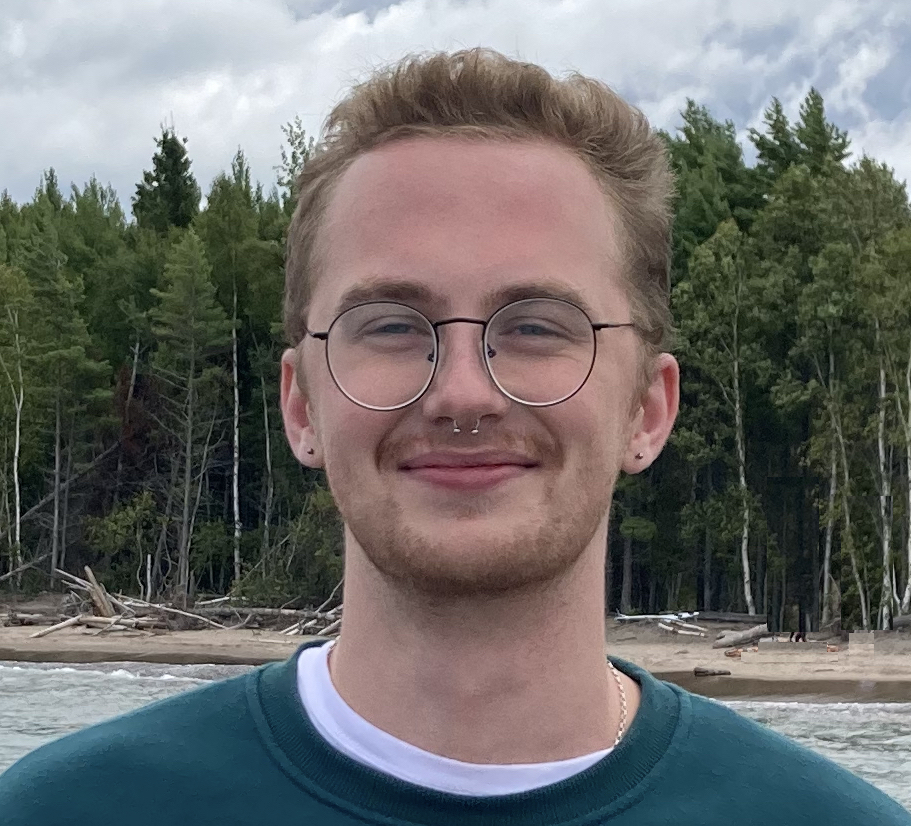
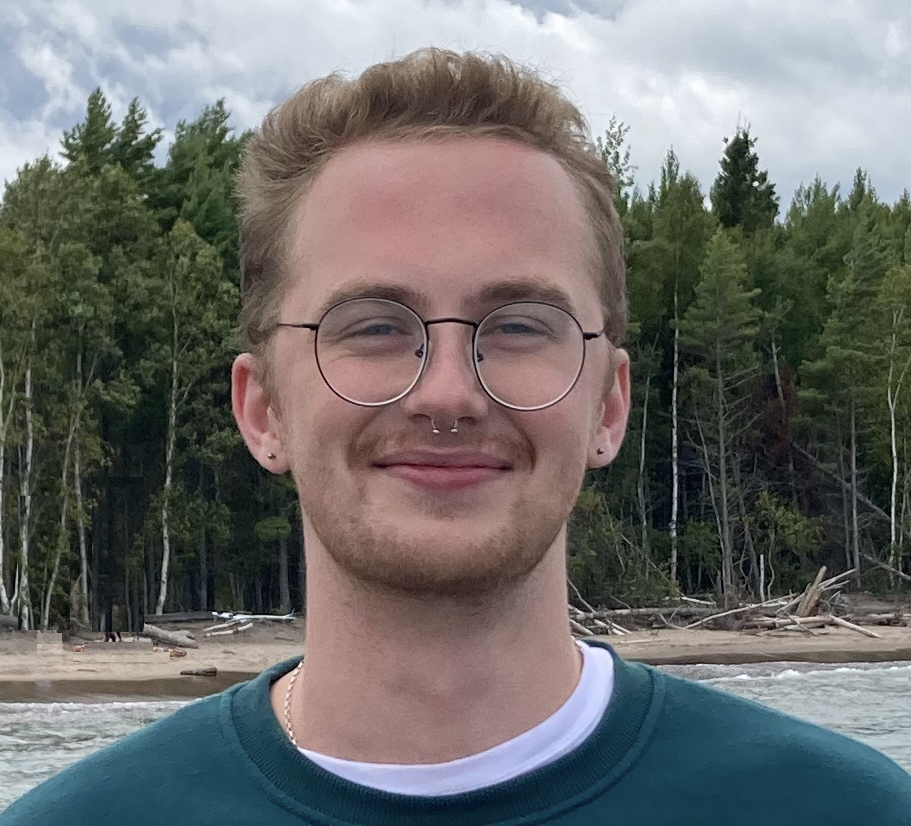
style and mirroring

diff --git a/sign-match.html b/sign-match.html
@@ -1,71 +1,131 @@
 <!DOCTYPE html>
 <html>
-<style>
-    body {
+    <style>
+        body {
         background-color: black;
         color: white;
         font-family: sans-serif;
     }
-</style>
-
-<head>
-    <meta charset="utf-8">
-    <title>sign match</title>
-    <meta name="viewport" content="width=device-width, initial-scale=1">
-</head>
-<script>
-    function is_match() {
+    </style>
+    <head>
+        <meta charset="utf-8">
+        <title>
+            sign match
+        </title>
+        <meta name="viewport" content="width=device-width, initial-scale=1">
+    </head>
+    <script>
+        function is_match() {
         document.getElementById("match-status").innerHTML = "Match Status: Who knows! Your birthday really has nothing to do with it";
     }
     function reset_match() {
         document.getElementById("match-status").innerHTML = "Match Status: ???????";
     }
-</script>
-
-<body>
-    <div style="text-align: center;">
-        <h1>🔮 &nbsp;💫 &nbsp; 🔮 &nbsp; ✨ </h1>
-        <h2>are they ur perfect match?????? check right now!</h2>
-        <h4 id="match-status">Match Status: ???????</h4>
-        <p>
-        <form action="is_match()">
-            <label for="person1">Your sign:</label>
-            <select name="person1" id="person1">
-                <option value="Aries">Aries</option>
-                <option value="Taurus">Taurus</option>
-                <option value="Gemini">Gemini</option>
-                <option value="Cancer">Cancer</option>
-                <option value="Leo">Leo</option>
-                <option value="Virgo">Virgo</option>
-                <option value="Libra">Libra</option>
-                <option value="Scorpio">Scorpio</option>
-                <option value="Sagittarius">Sagittarius</option>
-                <option value="Capricorn">Capricorn</option>
-                <option value="Aquarius">Aquarius</option>
-                <option value="Pisces">Pisces</option>
-            </select>
-            &nbsp;
-            <label for="person2">Their sign:</label>
-            <select name="person2" id="person2">
-                <option value="Aries">Aries</option>
-                <option value="Taurus">Taurus</option>
-                <option value="Gemini">Gemini</option>
-                <option value="Cancer">Cancer</option>
-                <option value="Leo">Leo</option>
-                <option value="Virgo">Virgo</option>
-                <option value="Libra">Libra</option>
-                <option value="Scorpio">Scorpio</option>
-                <option value="Sagittarius">Sagittarius</option>
-                <option value="Capricorn">Capricorn</option>
-                <option value="Aquarius">Aquarius</option>
-                <option value="Pisces">Pisces</option>
-            </select>
-        </form>
-        <br>
-        <button onclick="is_match()">check for a match!</button>
-        <button onclick="reset_match()">reset</button>
-        </p>
-    </div>
-</body>
-
+    </script>
+    <body>
+        <div style="text-align: center;">
+            <h1>
+                🔮  💫   🔮   ✨
+            </h1>
+            <h2>
+                are they ur perfect match?????? check right now!
+            </h2>
+            <h4 id="match-status">
+                Match Status: ???????
+            </h4>
+            <p>
+                <form action="is_match()">
+                    <label for="person1">
+                        Your sign:
+                    </label>
+                    <select name="person1" id="person1">
+                        <option value="Aries">
+                            Aries
+                        </option>
+                        <option value="Taurus">
+                            Taurus
+                        </option>
+                        <option value="Gemini">
+                            Gemini
+                        </option>
+                        <option value="Cancer">
+                            Cancer
+                        </option>
+                        <option value="Leo">
+                            Leo
+                        </option>
+                        <option value="Virgo">
+                            Virgo
+                        </option>
+                        <option value="Libra">
+                            Libra
+                        </option>
+                        <option value="Scorpio">
+                            Scorpio
+                        </option>
+                        <option value="Sagittarius">
+                            Sagittarius
+                        </option>
+                        <option value="Capricorn">
+                            Capricorn
+                        </option>
+                        <option value="Aquarius">
+                            Aquarius
+                        </option>
+                        <option value="Pisces">
+                            Pisces
+                        </option>
+                    </select>
+                    <label for="person2">
+                        Their sign:
+                    </label>
+                    <select name="person2" id="person2">
+                        <option value="Aries">
+                            Aries
+                        </option>
+                        <option value="Taurus">
+                            Taurus
+                        </option>
+                        <option value="Gemini">
+                            Gemini
+                        </option>
+                        <option value="Cancer">
+                            Cancer
+                        </option>
+                        <option value="Leo">
+                            Leo
+                        </option>
+                        <option value="Virgo">
+                            Virgo
+                        </option>
+                        <option value="Libra">
+                            Libra
+                        </option>
+                        <option value="Scorpio">
+                            Scorpio
+                        </option>
+                        <option value="Sagittarius">
+                            Sagittarius
+                        </option>
+                        <option value="Capricorn">
+                            Capricorn
+                        </option>
+                        <option value="Aquarius">
+                            Aquarius
+                        </option>
+                        <option value="Pisces">
+                            Pisces
+                        </option>
+                    </select>
+                </form>
+                <br>
+                <button onclick="is_match()">
+                    check for a match!
+                </button>
+                <button onclick="reset_match()">
+                    reset
+                </button>
+            </p>
+        </div>
+    </body>
 </html>

diff --git a/index.html b/index.html
@@ -1,7 +1,7 @@
 <!DOCTYPE html>
 <html>
-  <style>
-  a{
+    <style>
+        a{
     text-decoration: none;
     color: inherit;
   }
@@ -51,33 +51,71 @@
   a:hover {
     cursor: pointer;
   }
-  </style>
-  <head>
-    <meta charset="utf-8">
-    <title>Reese Porter</title>
-    <meta name="author" content="Reese Porter">
-    <meta name="description" content="software engineer and linguist">
-    <meta name="viewport" content="width=device-width, initial-scale=1">
-    <link rel="shortcut icon" type="image/x-icon" href="favicon.ico"/>
-    <link rel="canonical" href="https://reesporte.github.io/">
-  </head>
-  <script type="text/javascript">function choose(choices) {var index = Math.floor(Math.random() * choices.length);return choices[index];};function magic(){var response = document.getElementById("magic");response.innerHTML = choose(['It is certain.', 'It is decidedly so.', 'Without a doubt.', 'Yes - definitely.', 'You may rely on it.','As I see it, yes.', 'Most likely.', 'Outlook good.','Yes.', 'Signs point to yes.', 'Reply hazy, try again.','Ask again later.', 'Better not tell you now.','Cannot predict now.', 'Concentrate and ask again.',"Don't count on it.",'My reply is no.','My sources say no.','Outlook not so good.','Very doubtful.']).toLowerCase();};function dark_mode() {let element = document.body;element.classList.toggle("dark-mode"); let ind = document.getElementById("dark-mode-indicator"); if (ind.innerHTML.startsWith("🌙")) {ind.innerHTML = "🌞<span id='description'>light</span>"} else {ind.innerHTML = "🌙<span id='description'>dark</span>"}}</script>
-  <body class="dark-mode">
-    <div style="max-width:300px; margin:0 auto;">
-      <div>
-          <h1>Reese Porter</h1>
-          <img width="100%" src="headshot.jpg" alt="headshot of reese porter">
-          <p style="font-size:145%">software engineer &amp; linguist </p> 
-          <hr>
-          <div style="font-size:150%;">
-              <a href="mailto:reesedporter@gmail.com">✉<span id="description">email</span> </a> &nbsp;
-              <a href="https://www.linkedin.com/in/reese-porter" target="_blank">💼<span id="description">linkedin</span></a> &nbsp;
-              <a href="https://github.com/reesporte" target="_blank">💾<span id="description">github</span></a> &nbsp;
-              <a onclick="magic()" onmouseover="magic()">🎱<span id="magic">unfortunately, you need javascript to use the magic 8ball</span></a> &nbsp;
-			  <a href="https://reesporte.github.io/x-marks-the-spot/" target="_blank">❎<span id="description">x marks the spot</span></a> &nbsp;
-              <a href="#" onclick="dark_mode()" id="dark-mode-indicator">🌞<span id="description">light</span></a> &nbsp;
+    </style>
+    <head>
+        <meta charset="utf-8">
+        <title>
+            Reese Porter
+        </title>
+        <meta name="author" content="Reese Porter">
+        <meta name="description" content="software engineer and linguist">
+        <meta name="viewport" content="width=device-width, initial-scale=1">
+        <link rel="shortcut icon" type="image/x-icon" href="favicon.ico"/>
+        <link rel="canonical" href="https://reesporte.github.io/">
+    </head>
+    <script type="text/javascript">
+        function choose(choices) {var index = Math.floor(Math.random() * choices.length);return choices[index];};function magic(){var response = document.getElementById("magic");response.innerHTML = choose(['It is certain.', 'It is decidedly so.', 'Without a doubt.', 'Yes - definitely.', 'You may rely on it.','As I see it, yes.', 'Most likely.', 'Outlook good.','Yes.', 'Signs point to yes.', 'Reply hazy, try again.','Ask again later.', 'Better not tell you now.','Cannot predict now.', 'Concentrate and ask again.',"Don't count on it.",'My reply is no.','My sources say no.','Outlook not so good.','Very doubtful.']).toLowerCase();};function dark_mode() {let element = document.body;element.classList.toggle("dark-mode"); let ind = document.getElementById("dark-mode-indicator"); if (ind.innerHTML.startsWith("🌙")) {ind.innerHTML = "🌞<span id='description'>light</span>"} else {ind.innerHTML = "🌙<span id='description'>dark</span>"}}
+    </script>
+    <body class="dark-mode">
+        <div style="max-width:300px; margin:0 auto;">
+            <div>
+                <h1>
+                    Reese Porter
+                </h1>
+                <img width="100%" src="headshot.jpg" alt="headshot of reese porter">
+                <p style="font-size:145%">
+                    software engineer & linguist
+                </p>
+                <hr>
+                <div style="font-size:150%;">
+                    <a href="mailto:reesedporter@gmail.com">
+                        ✉
+                        <span id="description">
+                            email
+                        </span>
+                    </a>
+                    <a href="https://www.linkedin.com/in/reese-porter" target="_blank">
+                        💼
+                        <span id="description">
+                            linkedin
+                        </span>
+                    </a>
+                    <a href="https://github.com/reesporte" target="_blank">
+                        💾
+                        <span id="description">
+                            github
+                        </span>
+                    </a>
+                    <a onclick="magic()" onmouseover="magic()">
+                        🎱
+                        <span id="magic">
+                            unfortunately, you need javascript to use the magic 8ball
+                        </span>
+                    </a>
+                    <a href="https://reesporte.github.io/x-marks-the-spot/" target="_blank">
+                        ❎
+                        <span id="description">
+                            x marks the spot
+                        </span>
+                    </a>
+                    <a href="#" onclick="dark_mode()" id="dark-mode-indicator">
+                        🌞
+                        <span id="description">
+                            light
+                        </span>
+                    </a>
+                </div>
+            </div>
         </div>
-      </div>
-    </div>
-  </body>
+    </body>
 </html>
